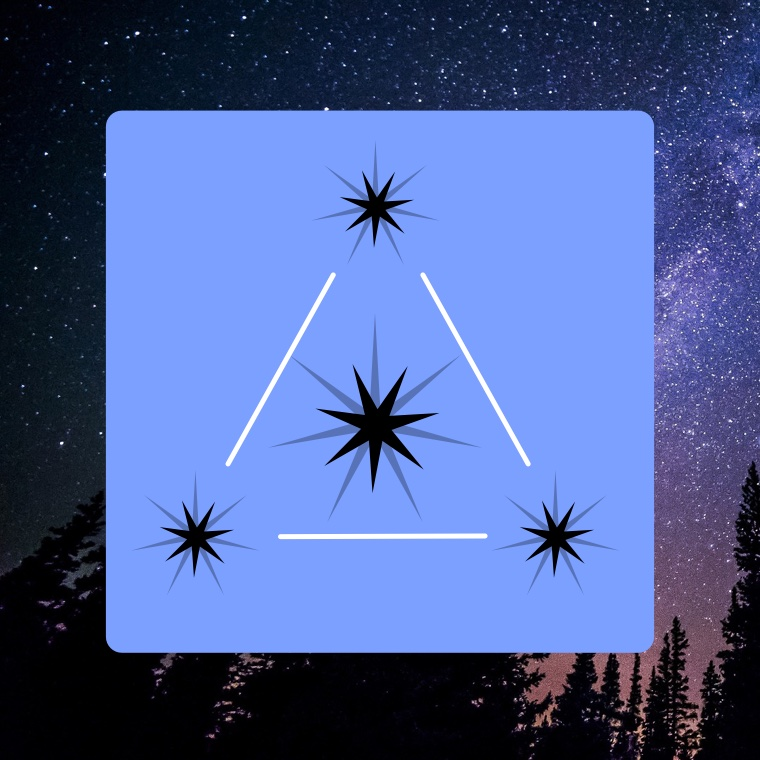
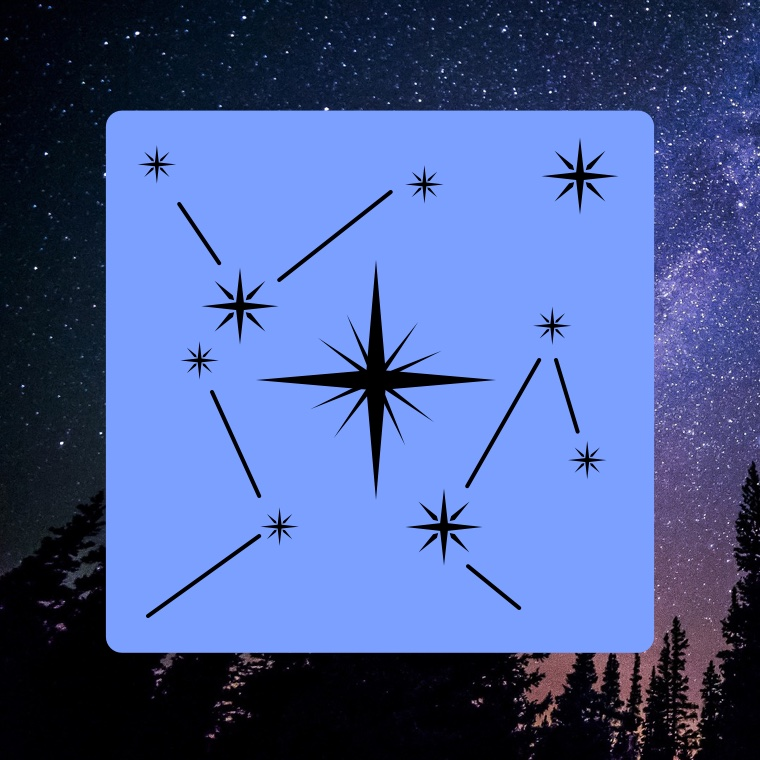
newsletter 011 draft

diff --git a/collections/_newsletters_parts/at-011~05-story-announce.md b/collections/_newsletters_parts/at-011~05-story-announce.md
@@ -1,0 +1,26 @@
+---
+layouter: newsletter-featured-story.html
+supertitle: Time Nomad update
+title: Introducing the Fixed Stars, a new add-on for Time Nomad
+subtitle: Adding stellar aspects, parallels, rise-culmination-set and rich astrological information to your charts.
+contentUrl: /posts/astrology/interpretation/2019/01/28/love-triangle-of-jupiter-venus.html
+image:
+  url: /images/schema/time-nomad-docs-fixed-stars-1x1.jpg
+  alt: Fixed stars in astrology
+---
+
+I know that a lot of folks patiently waited for the **fixed stars functionality** to be **added to Time Nomad**. And it has finally happened! Thank you to everybody for being patient, understanding and supporting me through the process.
+
+Working with the fixed stars was certainly a **challenge**. Firstly, the sheer number of the stars out there required some process of singling out the most relevant ones from the astrological point of view. The 15 Behenian “root” stars are certainly the ones to start with but clearly not quite enough. 
+
+I ended up opting for the classical work of Vivian Robson **“The Fixed Stars And Constellations In Astrology”** that was published in 1923 but still stands as the pillar of the stellar knowledge. Yes, it’s a bit old-style in its language but mostly due to the sources it uses: Ptolemy, Alvidas, Simmonite and other classical astrologers whose intimate knowledge of astrology of the stars still remains unmatched.
+
+You have to **excuse the language of their interpretations**. My advice is do not take it literally but rather “translate” it to the modern notions. For example, nebulae were  considered a sign of physical blindness. In the modern astrological interpretation one can talk about a weakened ability to see, to discern, to know, and thus a holistic astrological advice would be working on one’s understanding, learning new things, not staying locked up in what one already knows and comfortable with.
+
+The add-on is **designed to be freely configurable**. You can select what stars you want to work with, what stellar aspects you’re interested in and set your own orbs.
+
+Aspects to the fixed stars is a big topic in itself. It’s a common practice to only work with conjunctions. But other aspects are also valid geometrical constructs and thus Time Nomad is not trying to limit you in any way. Choose from a wide variety of stellar aspects and see what works best for your practice.
+
+The above [story investigating the Notre-Dame fire](/posts/astrology/event/2019/04/15/influence-of-fixed-stars-case-of-notre-dame-fire.html) is an example of the fixed stars analysis that can provide some ideas of how to use the add-on.
+
+Lastly, the add-on isn’t fully finished yet. There are still some improvements that I am planning to make in the coming months.

diff --git a/collections/_newsletters_parts/at-011~06-story-chart.md b/collections/_newsletters_parts/at-011~06-story-chart.md
@@ -1,0 +1,28 @@
+---
+layouter: newsletter-story-plain.html
+supertitle: Upcoming astrological events
+title: The Moon that brushed against Regulus
+social: twitter-follow
+---
+
+If this Full Moon is so fiery that’s due to some recent and still developing passages:
+
+* The **Moon** has just completed its close passage to the star **Regulus**
+* **Mars** is completing its conjunction with the fiery star **Aldebaran**
+* The **Sun** is heating up Uranus culminating in an exact conjunction shortly after the **Full Moon**
+
+Looking at the chart for **19 April 2019** depicting the moment of the Full Moon…
+
+<img class="lazyload inline border" data-srcset="/images/newsletters/tn-chart-2019-04-19.jpg" alt="Astrological chart with the Sun conjunct Uranus opposite and the Full Moon; Saturn-Pluto conjunction on the South Node">
+
+The **Moon swung past Regulus** a few days ago on April 15, an event that has, with little doubt, contributed to [the fire of Notre-Dame Cathedral in Paris](/posts/astrology/event/2019/04/15/influence-of-fixed-stars-case-of-notre-dame-fire.html). The encounter with Regulus filled the Moon with the **energies of Sun, Uranus and Mars**. Regulus is known as both the **“Lion’s heart”** and the **“Crushing Foot”**. Pick the one you prefer the most!
+
+**Mars stayed conjunct** with the beautiful star **Aldebaran** (the constellation of Taurus) from April 10 to April 19. Aldebaran is a **predominantly Marsian star** with some undertones of Mercury and Jupiter. 
+
+It’s always good to remember that any planet **conjunct to Aldebaran is opposite to Antares**, an even more Marsian star located in the constellation of Scorpius, you’re starting to get the full picture! One may meaningfully speak of the **Aldebaran–Antares axis of fire**.
+
+The **Sun** is continuing to **irradiate already electric Uranus** on their way to **exact conjunction on April 22**. 
+
+And, of course, we can’t forget our **favourite of the year** — [the ongoing grinder of Saturn – Pluto conjunction](/posts/astrology/event/2018/12/22/saturn-pluto-conjunction-year-2019.html) is about to **turn retrograde** very soon. Pluto goes fist on April 24 closely followed by Saturn on April 29. Only a few sleeps left! This retrograde isn’t necessarily going to be a “bad” thing. **It may bring some pressure relief**, we’ll know soon anyway.
+
+To wrap up the big picture, it’s a **fiery period of time prone to bursts and accidents** relating to unconfined fire of possibly electric and unexpected nature. Stay wise knowing that any **surprises are part of the celestial plan**!

diff --git a/collections/_newsletters_parts/at-011~07-previous-issues.md b/collections/_newsletters_parts/at-011~07-previous-issues.md
@@ -1,0 +1,29 @@
+---
+layouter: newsletter-double-column.html
+title1: In the previous issues…
+title2: Long-term events
+---
+
+The previous issue discussed [Equinox, Solstice and the idea of Universal Consciousness](/newsletters/2019-04-05-astrology-today-issue-010.html).
+
+The one before pondered upon [The Sidereal Zodiac in astrology, its strengths and weaknesses](/newsletters/2019-03-24-astrology-today-issue-009.html).
+
+The topic of the year still remains [the timeline of Saturn – Pluto conjunction of years 2019–2020–2021 and its karmic meaning](/newsletters/2019-03-14-astrology-today-issue-008.html).
+
+And we didn't forget the glory of the [annual Sun – Neptune conjunction of 2019](http://localhost:4000/newsletters/2019-03-04-astrology-today-issue-007.html).
+
+The alchemical nature of the Zodiac was discussed in [how the four Elements rule over the Zodiac signs](/newsletters/2019-02-27-astrology-today-issue-006.html).
+
+We spoke about the planetary cycles in the second part of the series about [understanding planetary cycles: applying and separating aspects](/newsletters/2019-02-19-astrology-today-issue-005.html).
+
+Which was a continuation of the topic about [waxing and waning aspects](/newsletters/2019-02-12-astrology-today-issue-004.html) in the context of planetary cycles.
+
+[Mars – Pluto squares of 2019 and the politics of nuclear warfare](/newsletters/2019-02-05-astrology-today-issue-003.html) was an interesting foray into the world of big politics.
+
+We touched on a topic of an archetype of love triangle, or [why Jupiter and Venus always in love](/newsletters/2019-01-29-astrology-today-issue-002.html).
+
+We also talked about manifestations of [the signs of the Zodiac in the human body](/newsletters/2019-01-21-astrology-today-issue-001.html).
+
+<!-- COLUMN -->
+
+**Saturn – Pluto conjunction** is slowing down and is currently at **2.7º orb** as both Saturn and Pluto  are preparing for a **nearly mutual retrograde starting in just a few days time on 24 April** while still approaching their exact conjunction on Jan 13, 2020. [Read the story about this event that happens once in about 38 years and its possible repercussions.](/posts/astrology/event/2018/12/22/saturn-pluto-conjunction-year-2019.html)

diff --git a/collections/_newsletters_parts/at-011~04-guest-story.md b/collections/_newsletters_parts/at-011~04-guest-story.md
@@ -1,0 +1,27 @@
+---
+layouter: newsletter-guest-story.html
+supertitle: Discovering planetary energies
+title: Pink Opal gemstone — a true celestial candy
+contentUrl: https://gemsinstyle.com/blogs/news/lapis-lazuli-gemstone-of-the-starry-night-sky
+image:
+  alt: Pink Opal gemstone “Dancing Orbit” silver and rose gold necklaces by Gems In Style jewellery
+  url: /images/newsletters/tn-gem-pink-opal-celestial-beauty-1200x630.jpg  
+authorImage:
+  alt: Lara Gems, founder of Gems In Style jewellery
+  url: /images/newsletter-authors/lara-gems.png
+authorProfile: >
+  Lara Gems,<br>
+  Gemstone Strategist and<br>
+  Founder of <a href="https://gemsinstyle.com">Gems In Style Jewellery</a>
+---
+
+When you look up to the starry night sky you find yourself in a **very different state of mind** in a matter of seconds as if you are channeling directly from the wisdom of the universe. What if I tell you that there is one very special gemstone that looks like the starry night sky and does exactly the same to your consciousness, **taking you far away to no limits**… literally!
+
+Egyptian Pharaohs regarded this gem as the **“Stone of the gods”** and believed it was able to connect them to higher realms. Well, I totally agree with them (as if they care). This gem is like a window to something bigger than our mind can comprehend.
+
+**Lapis Lazuli gemstone** is your invitation to significantly expand your deep reaching vision of this reality and find missing links in any situation: here, there, anywhere. It brings **mental clarity and focus, sharpens your mind**, allowing you to see the solution.
+
+When you work with Lapis Lazuli you make yourself available for something bigger than you and connect to cosmic consciousness. I like to call **Lapis Lazuli an intellectual amplifier** and mind sharpener. It’s a perfect gemstone to anyone who studies or is involved with demanding business activities. And of cause it’s your best companion when it comes to astrology.
+
+**Learn more about Lapis Lazuli** – a true legend among gemstones that has kept people spellbound for over 6,500 years… [read more]($contentUrl).
+

diff --git a/collections/_newsletters_parts/at-011~02-editor-intro.md b/collections/_newsletters_parts/at-011~02-editor-intro.md
@@ -1,0 +1,18 @@
+---
+layouter: newsletter-editor-intro.html
+title: From the editor
+image: 
+  url: /images/newsletter-authors/denis-zubkov.png
+  alt: Denis Zubkov
+---
+
+This **Full Moon** is certainly going to be remembered in the astrological history. It is arguably one of **the most fiery** — as opposed to the biggest or fullest — Moons we have had. In this issue will we discuss what turned it that way and why it is always good to be ready for certain things in advance.
+
+The biggest topic is obviously the **fire of Notre-Dame Cathedral** that was a deeply moving accident that should have been prevented but unfortunately we mostly notice the eggs that got irreversibly broken, an indispensable trait of the human nature.
+
+We are going to look at the **Notre-Dame event by using the fixed stars** since they can offer some very good hints when it comes to precise local events. The fixed stars have that amazing nature of being the sources of some very punctual astral energies, something that every astrology enthusiast sees as powerful keys to unlock the meaning behind the chart.
+
+Notwithstanding the drama of Notre-Dame, it was a lucky coincidence that **Time Nomad has finally introduced the Fixed Stars add-on**. Creating this add-on proved to be quite an adventure that took much longer than initially anticipated. I am going to tell a few words about this add-on in a few paragraphs’ time.
+
+Chasing the fixed stars,<br>
+<span class="signature">Denis</span>

diff --git a/collections/_newsletters_parts/at-011~03-featured-story.md b/collections/_newsletters_parts/at-011~03-featured-story.md
@@ -1,0 +1,14 @@
+---
+layouter: newsletter-featured-story.html
+supertitle: Featured story
+title: Influence of the Fixed Stars, an astrological interpretation of the fire of Notre-Dame de Paris
+subtitle: Fires and other punctual accidents are often the result of exact alignments between planets and the fixed stars.
+contentUrl: /posts/astrology/event/2019/04/15/influence-of-fixed-stars-case-of-notre-dame-fire.html
+image:
+  alt: Influence of the Fixed Stars, an astrological interpretation of Notre-Dame de Paris fire, 15 April 2019
+  url: /images/schema/time-nomad-post-20190415-influence-of-fixed-stars-case-of-notre-dame-fire-1x1.jpg  
+---
+
+In this story we will look into the **nature of fixed stars** and will attempt to gain some understanding of the actual mechanisms that govern irregular **“out of the blue” accidents** like fires, explosions and collapses.
+
+**Symbolic, dramatic and sudden fire** that nearly destroyed Notre-Dame Cathedral in Paris on 15 April, 2019 is a great example of an event that took place perhaps due to a specific and precise combination of stellar energies… [continue reading]($contentUrl)

diff --git a/collections/_newsletters/2019-04-18-astrology-today-issue-011.md b/collections/_newsletters/2019-04-18-astrology-today-issue-011.md
@@ -1,0 +1,28 @@
+---
+layout: page-newsletter
+uuid: NL-20190418
+date: 2019-04-18 12:00:00 +1000
+modified: 2019-04-18 12:00:00 +1000
+title: Astrology Today • issue 011
+subtitle: Time Nomad newsletter • April 18, 2019
+description: Interpreting the fire of NOTRE DAME • The arrival of FIXED STARS • Exploring PINK OPAL — the celestial candy… read our regular astrological knowledge stories and news updates.
+# App feed
+app:
+  scope: 
+  present: must
+  title: Astrology Today 🌕
+  description: Astro news update • Interpreting NOTRE DAME fire • The arrival of FIXED STARS • Exploring PINK OPAL, the celestial candy
+# Other
+comments: true
+# Extra info for structured data
+schema:
+  image:
+    alt: Astrology Today, astro news update, issue 011
+    url: /images/schema/astrology-today-011-gem-pink-opal-fiery-moon.jpg
+    width: 1200
+    height: 630
+# Newsletter content
+newsletter:
+  prefix: at-011
+---
+

diff --git a/collections/_posts/2019-03-23-sidereal-zodiac-in-astrology-its-strengths-and-weaknesses.md b/collections/_posts/2019-03-23-sidereal-zodiac-in-astrology-its-strengths-and-weaknesses.md
@@ -225,8 +225,8 @@ The fixed stars is a fascinating topic and more stories about the influence and 
     </div>
     <div class="col-9">
       <div class="row">
-        <h3>Upcoming Time Nomad add-on: Fixed stars</h3>
-        <p>The upcoming “Fixed stars” add-on for <a href="/">Time Nomad astrology app</a> will allow for further exploration of fixed stars, including their aspects to planets, parallels and rise, transit and culmination for any chart.</p>
+        <h3>Introducing Time Nomad add-on: Fixed stars</h3>
+        <p>The “Fixed stars” add-on for <a href="/">Time Nomad astrology app</a> allows for further exploration of fixed stars, including their aspects to planets, parallels and rise, transit and culmination for any chart.</p>
       </div>
     </div>
   </div>

diff --git a/collections/_posts/2019-04-16-influence-of-fixed-stars-case-of-notre-dame-fire.md b/collections/_posts/2019-04-16-influence-of-fixed-stars-case-of-notre-dame-fire.md
@@ -4,7 +4,7 @@ uuid: P-20190415
 date: 2019-04-15 12:00:00 +1000
 modified: 2019-04-16 12:00:00 +1000
 title: Influence of the Fixed Stars, an astrological interpretation of Notre-Dame de Paris fire, 15 April 2019
-description: Fires and other punctual accidents are often the result of exact alignments between planets and the fixed stars. Fire of Notre-Dame Cathedral that took place on 15 April, 2019 is the case in point.
+description: Fires and other punctual accidents are often the result of exact alignments between planets and the fixed stars. Fire of Notre-Dame Cathedral that took place on 15 April, 2019 is a case in point.
 categories: posts astrology event
 comments: true
 # Extra info for structured data
